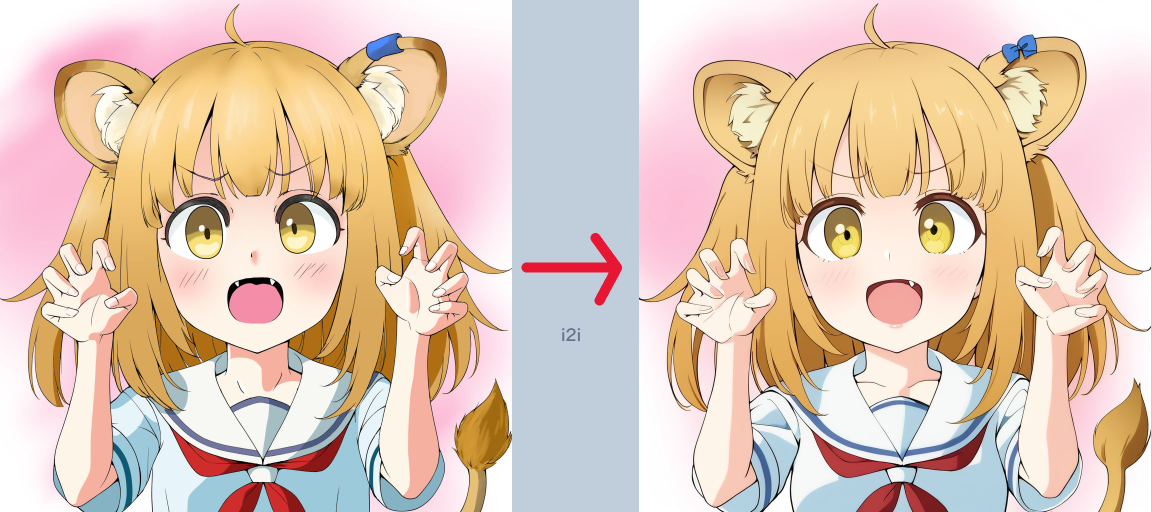
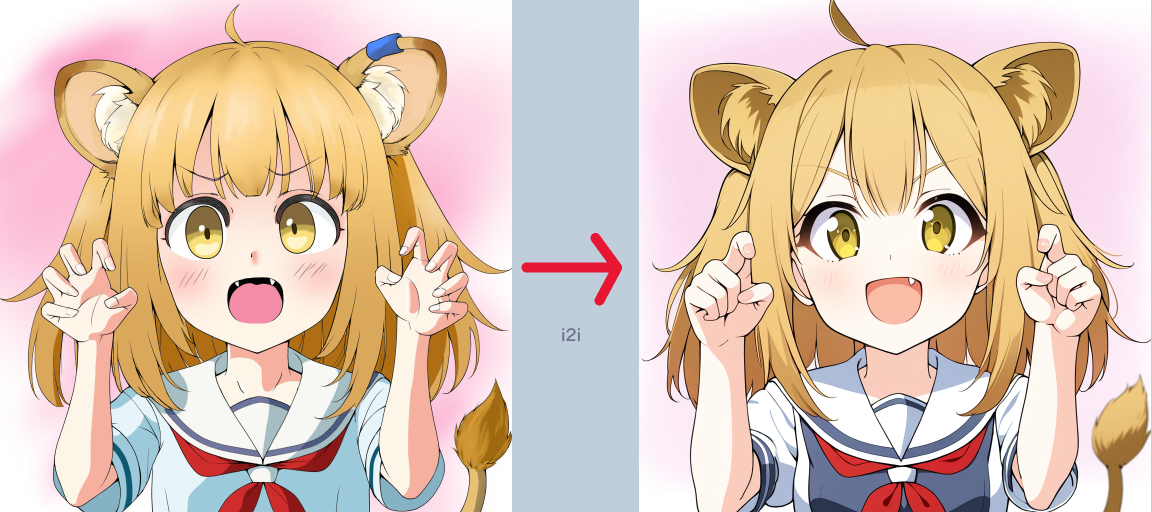
i2i 強度の調整

Changed region(s): [[0.5312, 0.0, 1.0, 1.0]]

diff --git a/bridge_src/bridge_i2i.py b/bridge_src/bridge_i2i.py
@@ -11,7 +11,7 @@ class BridgeImage2Image(bridge_base.BridgeBase):
         # テキストプロンプトはこのタイミングで読み込む
         with open(self.text_prompt_path, 'r') as f:
             text_prompt = yaml.safe_load(f)
-        for level in [ 40, 50, 60, 80]:
+        for level in [ 50, 70, 80, 90]:
             # パラメータ埋め込み(workflowによって異なる処理)
             self.prompt_path["7"]["inputs"]["text"] = ",".join(text_prompt["prompt"])
             self.prompt_path["8"]["inputs"]["text"] = ",".join(text_prompt["negative"])
